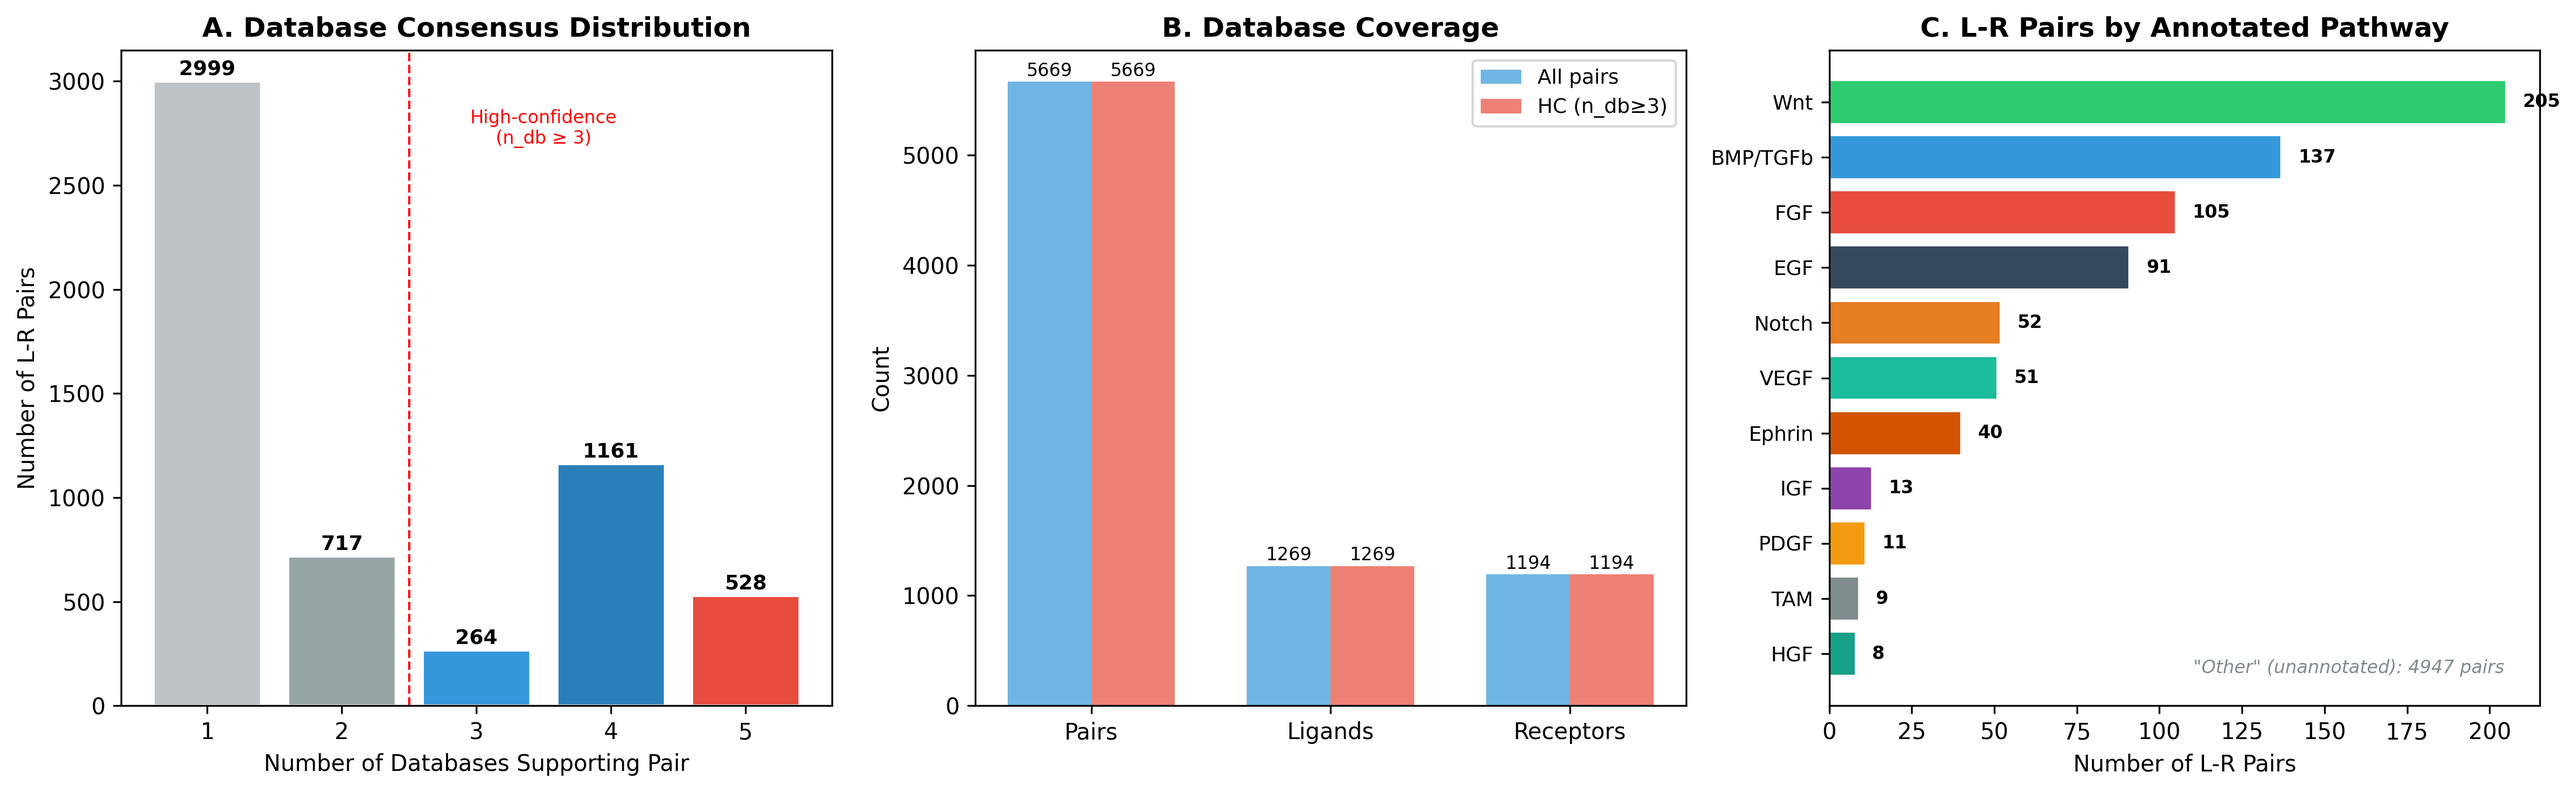
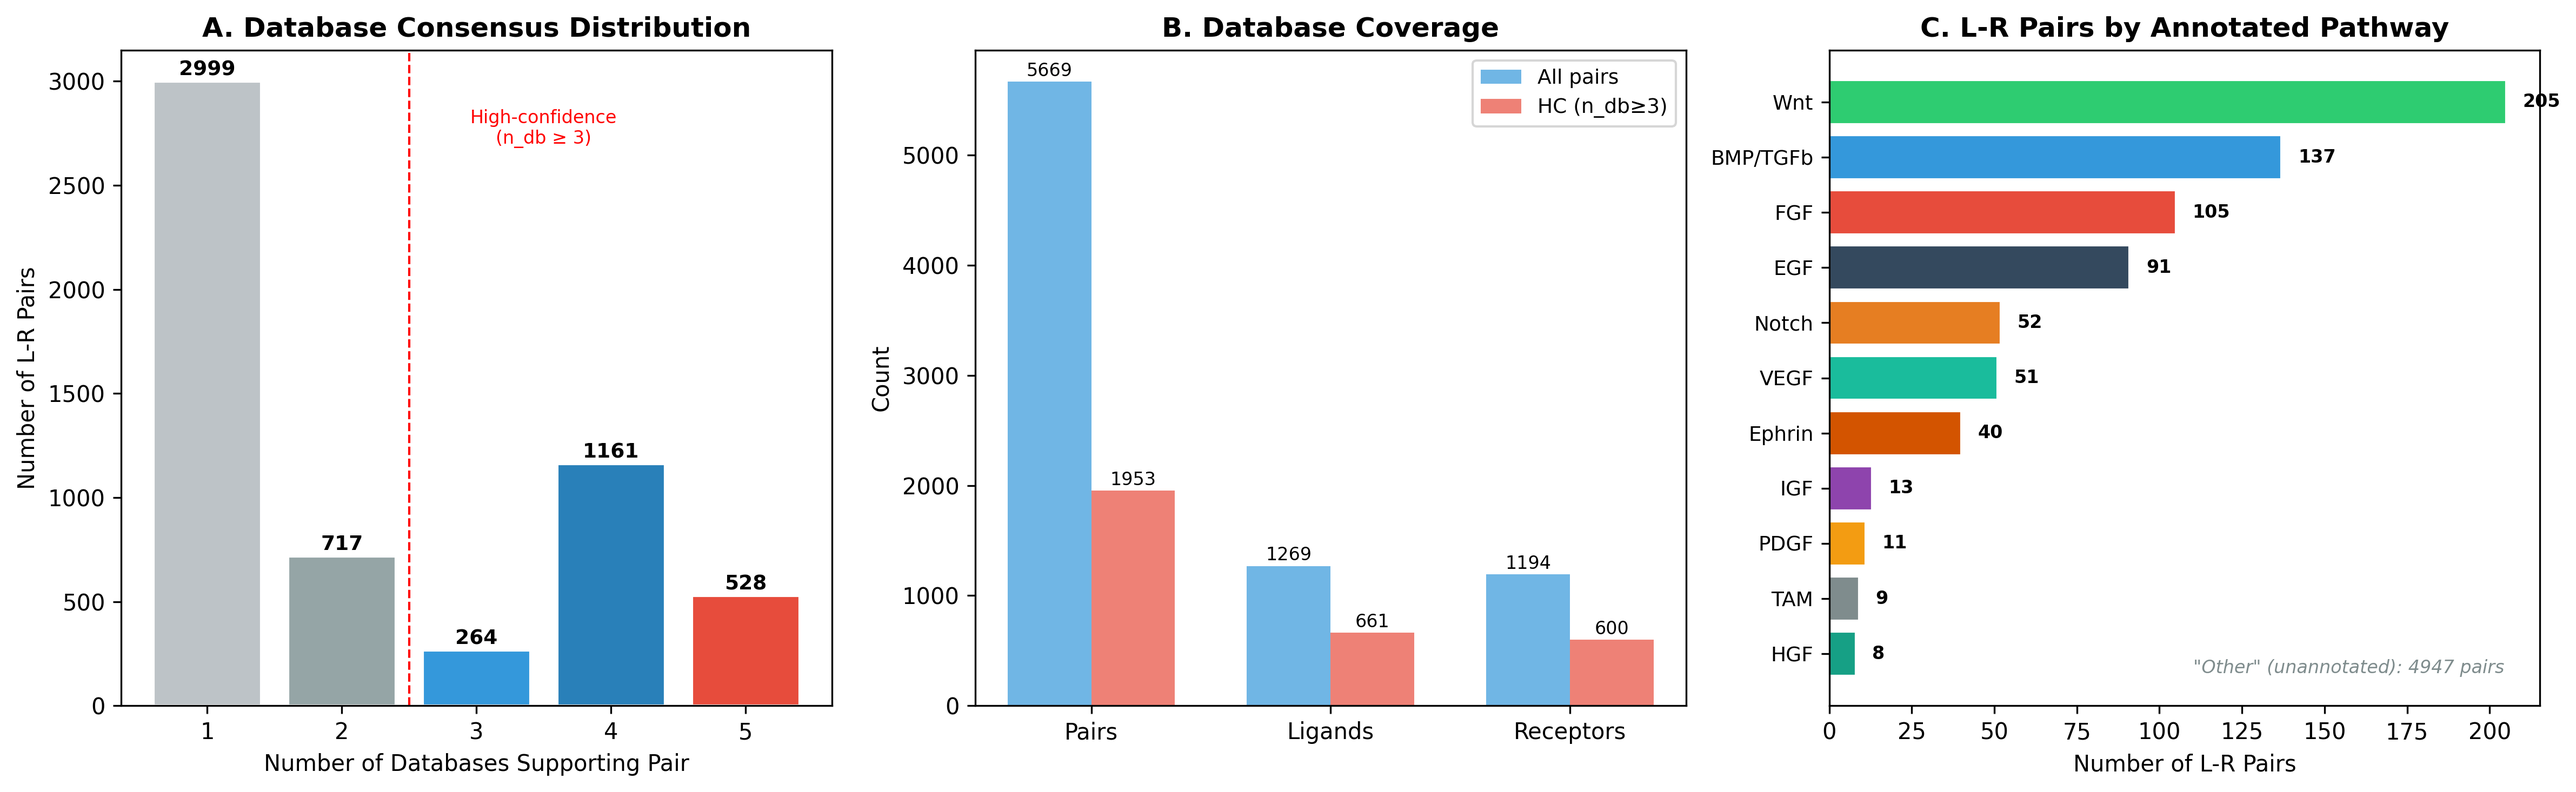
Fix Supp Figure 2B: load HC counts from cross-species file with n_db
curated_lr_pairs_mouse.csv had no n_db column, so HC = All (identical bars).
Now reads n_db from cross_species_lr_mismatch_scores.csv.
HC (n_db≥3): 1,953 pairs / 1,000 ligands / 490 receptors vs All: 5,669 / 1,269 / 1,194.

Changed region(s): [[0.4038, 0.0921, 0.4659, 0.6446], [0.5901, 0.706, 0.6523, 0.8288], [0.497, 0.706, 0.5591, 0.7981]]

diff --git a/scripts/06_figures/supp2_lr_database.py b/scripts/06_figures/supp2_lr_database.py
@@ -55,15 +55,16 @@ n_pairs = len(lr)
 n_ligands = lr['ligand'].nunique()
 n_receptors = lr['receptor'].nunique()
 
-# HC subset
-if 'n_db' in lr.columns:
-    lr_hc = lr[lr['n_db'] >= 3]
-else:
-    lr_hc = lr  # fallback
+# HC subset — get from cross-species file which has n_db
+cross = pd.read_csv(PROJECT_DIR / "results" / "mismatch" / "cross_species_lr_mismatch_scores.csv")
+lr_hc_pairs = cross[cross['n_db'] >= 3][['receptor', 'ligand']].drop_duplicates()
+# Convert to mouse gene names for counting
+lr_hc_pairs['ligand_m'] = lr_hc_pairs['ligand'].apply(lambda g: g[0].upper() + g[1:].lower())
+lr_hc_pairs['receptor_m'] = lr_hc_pairs['receptor'].apply(lambda g: g[0].upper() + g[1:].lower())
 
-n_pairs_hc = len(lr_hc)
-n_ligands_hc = lr_hc['ligand'].nunique()
-n_receptors_hc = lr_hc['receptor'].nunique()
+n_pairs_hc = len(lr_hc_pairs)
+n_ligands_hc = lr_hc_pairs['ligand_m'].nunique()
+n_receptors_hc = lr_hc_pairs['receptor_m'].nunique()
 
 categories = ['Pairs', 'Ligands', 'Receptors']
 all_vals = [n_pairs, n_ligands, n_receptors]
